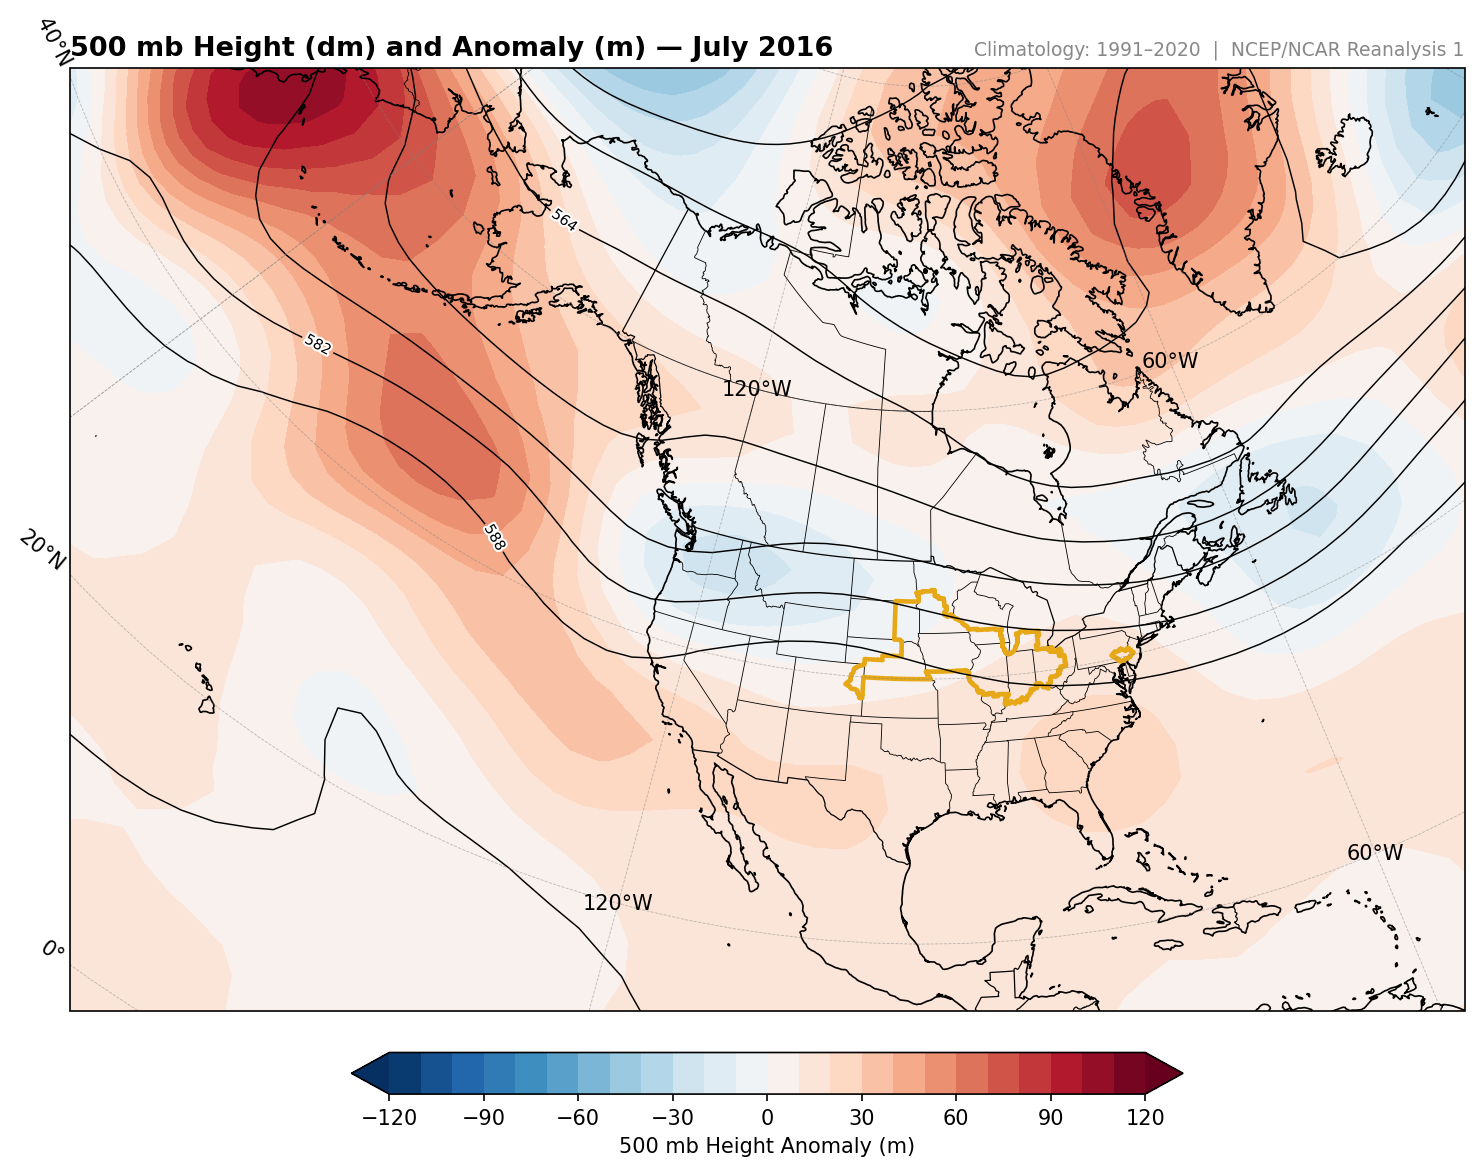
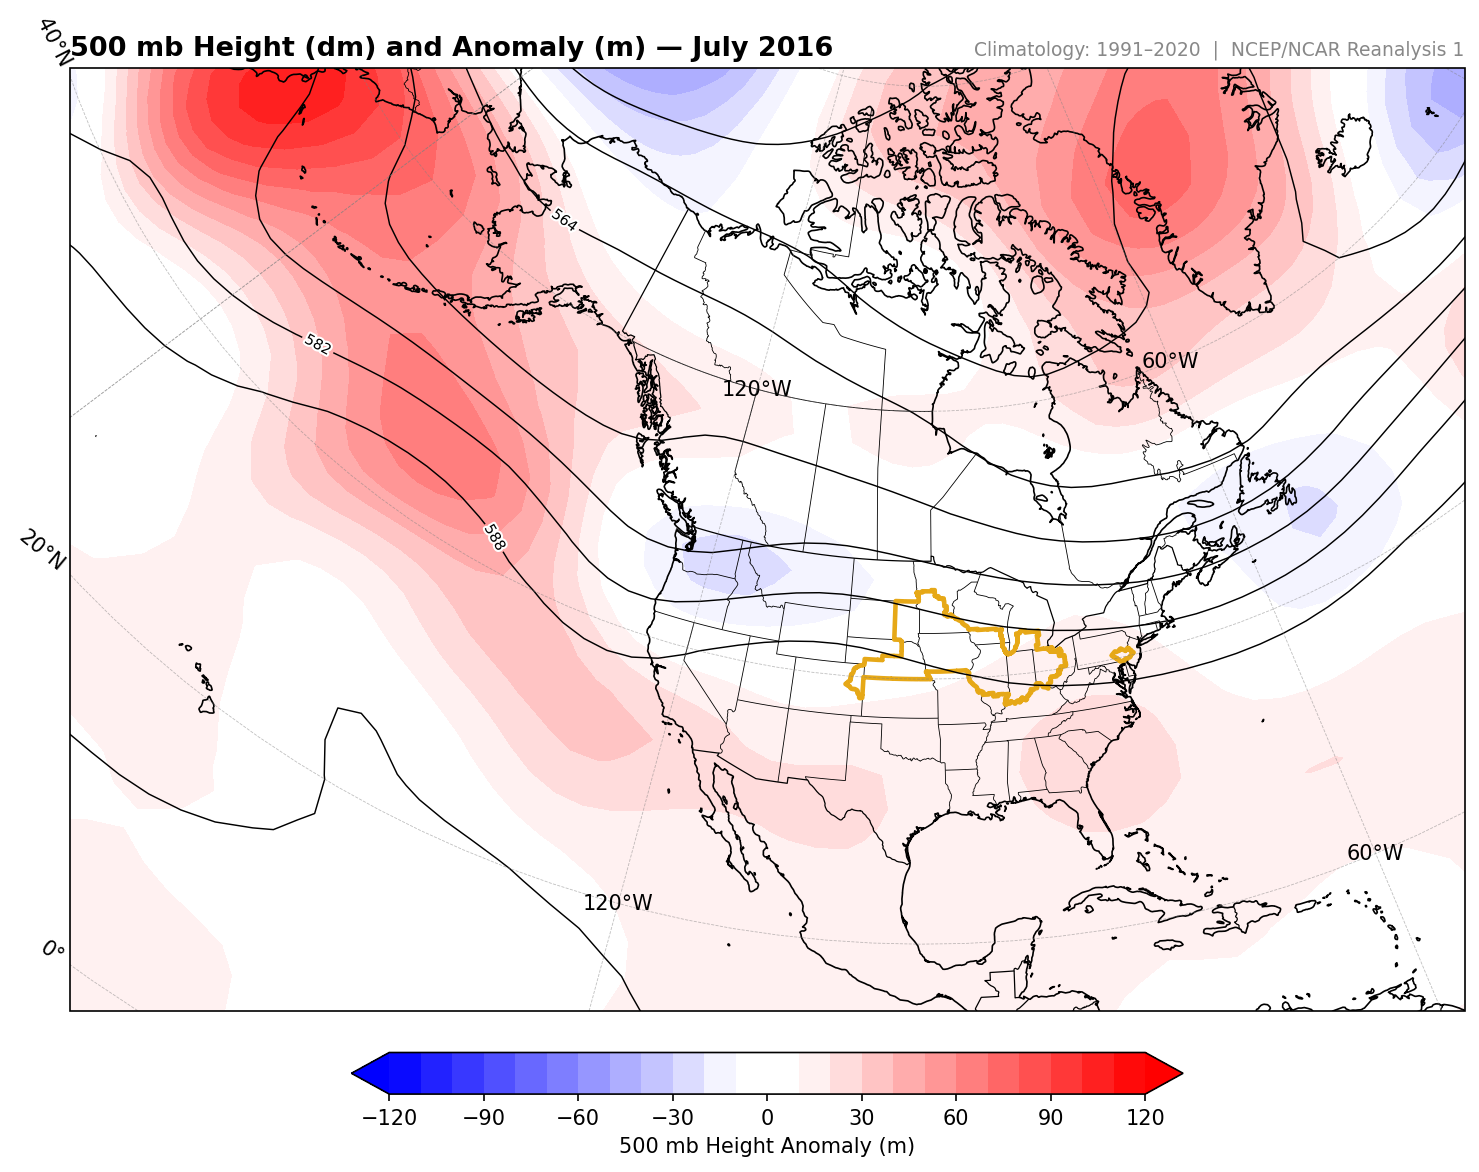
Creates heat day maps and updates anomaly colormap
Heat days are days with tmax > 95 deg F

Colormap was updated to have a white band centered at zero

diff --git a/public_html/js/surface.js b/public_html/js/surface.js
@@ -14,6 +14,10 @@ var SURF_VARS = [
         stem:    'prate_anom',
         caption: 'Brown = drier than normal &nbsp;|&nbsp; Green = wetter than normal &nbsp;|&nbsp; Units: in/month'
     },
+    {
+        stem:    'tmax_heatdays_anom',
+        caption: 'Blue = fewer days &gt;95&deg;F than normal &nbsp;|&nbsp; Red = more days &gt;95&deg;F than normal &nbsp;|&nbsp; Units: days/month'
+    },
 ];
 
 function updateSurfaceGrid() {
@@ -38,10 +42,12 @@ function updateSurfaceGrid() {
         var row = document.createElement('div');
         row.className = 'row g-4 mt-2';
 
+        var colClass = ['', 'col-12 col-xl-8 mx-auto', 'col-12 col-xl-6', 'col-12 col-xl-4'][selectedVars.length] || 'col-12 col-xl-4';
+
         selectedVars.forEach(function(v) {
             var fname = v.stem + '_2016_' + month.val + '_' + month.slug + '_' + zoom + '.png';
             var col = document.createElement('div');
-            col.className = 'col-12 col-xl-6';
+            col.className = colClass;
             col.innerHTML =
                 '<img src="images/' + fname + '" ' +
                      'class="img-fluid rounded shadow-sm d-block mx-auto" ' +

diff --git a/plot_anomalies.py b/plot_anomalies.py
@@ -12,6 +12,7 @@ import cartopy.crs as ccrs
 import cartopy.feature as cfeature
 import cartopy.util as cutil
 import json
+import matplotlib.colors as mcolors
 import matplotlib.patheffects as pe
 import matplotlib.pyplot as plt
 import numpy as np
@@ -165,8 +166,22 @@ def plot_overlay(data, lons, lats, fill_levs, cmap):
 
     ax.set_axis_off()
     ax.spines["geo"].set_visible(False)
-    
+
     return fig
+
+
+def _white_center_cmap(name, white_frac=0.08):
+    """Diverging colormap with a white band centered at zero."""
+    base = plt.cm.get_cmap(name)
+    n, w = 512, max(1, round(512 * white_frac / 2))
+    return mcolors.LinearSegmentedColormap.from_list(f'{name}_wc', np.vstack([
+        base(np.linspace(0.0, 0.5, n // 2 - w)),
+        np.ones((2 * w, 4)),
+        base(np.linspace(0.5, 1.0, n // 2 - w)),
+    ]))
+
+CMAP_RDBW = _white_center_cmap('bwr')
+CMAP_BRBG = _white_center_cmap('BrBG')
 
 # =========================================================================
 # 500 mb GEOPOTENTIAL HEIGHT ANOMALY (and actual heights)
@@ -199,7 +214,7 @@ for month_num, month_name in MONTHS.items():
 
     # Plot anomalies (m) on global map with contours of actual heights (dm)
     # blue = below normal heights, red = above normal heights
-    fig_global = plot_global(anom_c, lons_c, lats, fill_levs_hgt, "RdBu_r", title,
+    fig_global = plot_global(anom_c, lons_c, lats, fill_levs_hgt, CMAP_RDBW, title,
                              "500 mb Height Anomaly (m)",
                              line_data=hgt_c / 10, line_levs=line_levs_hgt)
     
@@ -209,7 +224,7 @@ for month_num, month_name in MONTHS.items():
 
     # Plot anomalies (m) on North America map with contours of actual heights (dm)
     # blue = below normal heights, red = above normal heights
-    fig_na = plot_na_or_conus(anom_c, lons_c, lats, fill_levs_hgt, "RdBu_r", title,
+    fig_na = plot_na_or_conus(anom_c, lons_c, lats, fill_levs_hgt, CMAP_RDBW, title,
                               "500 mb Height Anomaly (m)",
                               line_data=hgt_c / 10, line_levs=line_levs_hgt,
                               corn_belt_feat=corn_belt_feature, zoom="na")
@@ -220,7 +235,7 @@ for month_num, month_name in MONTHS.items():
 
     # Create overlay of anomalies (m) for interactive map
     # blue = below normal heights, red = above normal heights
-    fig_overlay = plot_overlay(anom_c, lons_c, lats, fill_levs_hgt, "RdBu_r")
+    fig_overlay = plot_overlay(anom_c, lons_c, lats, fill_levs_hgt, CMAP_RDBW)
     
     fig_overlay.savefig(OUT_DIR / f"overlay_{fname}.png", transparent=True, dpi=600, pad_inches=0)
     plt.close(fig_overlay)
@@ -229,7 +244,7 @@ for month_num, month_name in MONTHS.items():
 
 
 # =========================================================================
-# 2m TEMPERATURE ANOMALY  (North America only)
+# 2m TEMPERATURE ANOMALY  (North America and CONUS)
 # =========================================================================
 
 # --- Load data ---
@@ -244,7 +259,7 @@ fill_levs_tmp = np.arange(-9, 9.1, 1)  # °F
 
 for month_num, month_name in MONTHS_SURFACE.items():
 
-    # Get mean values for chosen month and calculate anomalies (m)
+    # Get mean values for chosen month and calculate anomalies (°F)
     tmp_2016 = tmp_mean.sel(time=f"{YEAR}-{month_num:02d}").squeeze()
     tmp_clim = tmp_ltm.isel(time=month_num - 1)
     anom_f   = (tmp_2016 - tmp_clim) * 9 / 5 # °F anomaly = Kelvin anomaly × 9/5 (offset cancels in difference)
@@ -255,16 +270,16 @@ for month_num, month_name in MONTHS_SURFACE.items():
     title = f"2m Temperature Anomaly (°F) — {month_name} {YEAR}"
     fname = f"tmp2m_anom_{YEAR}_{month_num:02d}_{month_name.lower()}"
 
-    # Plot anomalies (°F) on North America map
+    # Plot anomalies (°F) on map
     # Blue = cooler than normal, Red = warmer than normal
-    fig_na = plot_na_or_conus(data_c, lons_c, lats, fill_levs_tmp, "RdBu_r",
+    fig_na = plot_na_or_conus(data_c, lons_c, lats, fill_levs_tmp, CMAP_RDBW,
                               title, "Temperature Anomaly (°F)",
                               corn_belt_feat=corn_belt_feature, zoom="na")
     fig_na.savefig(OUT_DIR / f"{fname}_na.png", dpi=150, bbox_inches="tight", facecolor="white")
     plt.close(fig_na)
     print(f"Saved: {OUT_DIR / f'{fname}_na.png'}")
 
-    fig_conus = plot_na_or_conus(data_c, lons_c, lats, fill_levs_tmp, "RdBu_r",
+    fig_conus = plot_na_or_conus(data_c, lons_c, lats, fill_levs_tmp, CMAP_RDBW,
                                  title, "Temperature Anomaly (°F)",
                                  corn_belt_feat=corn_belt_feature, zoom="conus")
     fig_conus.savefig(OUT_DIR / f"{fname}_conus.png", dpi=150, bbox_inches="tight", facecolor="white")
@@ -273,7 +288,7 @@ for month_num, month_name in MONTHS_SURFACE.items():
 
 
 # =========================================================================
-# PRECIPITATION RATE ANOMALY  (North America only)
+# PRECIPITATION RATE ANOMALY  (North America and CONUS)
 # =========================================================================
 
 # --- Load data ---
@@ -288,7 +303,7 @@ fill_levs_prate = np.arange(-3, 3.1, 0.25)  # in/month
 
 for month_num, month_name in MONTHS_SURFACE.items():
 
-    # Get mean values for chosen month and calculate anomalies (m)
+    # Get mean values for chosen month and calculate anomalies (in/month)
     prate_2016 = prate_mean.sel(time=f"{YEAR}-{month_num:02d}").squeeze()
     prate_clim = prate_ltm.isel(time=month_num - 1)
     days       = DAYS_IN_MONTH[month_num]
@@ -300,21 +315,73 @@ for month_num, month_name in MONTHS_SURFACE.items():
     title = f"Precipitation Anomaly (in/month) — {month_name} {YEAR}"
     fname = f"prate_anom_{YEAR}_{month_num:02d}_{month_name.lower()}"
 
-    # Plot anomalies (in/month) on North America map
+    # Plot anomalies (in/month) on map
     # Brown = drier than normal, Green = wetter than normal
-    fig_na = plot_na_or_conus(data_c, lons_c, lats, fill_levs_prate, "BrBG",
+    fig_na = plot_na_or_conus(data_c, lons_c, lats, fill_levs_prate, CMAP_BRBG,
                               title, "Precipitation Anomaly (in/month)",
                               corn_belt_feat=corn_belt_feature, zoom="na")
     fig_na.savefig(OUT_DIR / f"{fname}_na.png", dpi=150, bbox_inches="tight", facecolor="white")
     plt.close(fig_na)
     print(f"Saved: {OUT_DIR / f'{fname}_na.png'}")
 
-    fig_conus = plot_na_or_conus(data_c, lons_c, lats, fill_levs_prate, "BrBG",
+    fig_conus = plot_na_or_conus(data_c, lons_c, lats, fill_levs_prate, CMAP_BRBG,
                                  title, "Precipitation Anomaly (in/month)",
                                  corn_belt_feat=corn_belt_feature, zoom="conus")
     fig_conus.savefig(OUT_DIR / f"{fname}_conus.png", dpi=150, bbox_inches="tight", facecolor="white")
     plt.close(fig_conus)
     print(f"Saved: {OUT_DIR / f'{fname}_conus.png'}")
+
+
+# =========================================================================
+# DAYS > 95°F (35°C) ANOMALY  (North America and CONUS)
+# =========================================================================
+
+_hd_clim_path = DATA_DIR / "heat_days_clim_1991-2020.nc"
+_hd_2016_path = DATA_DIR / f"heat_days_{YEAR}.nc"
+
+if _hd_clim_path.exists() and _hd_2016_path.exists():
+
+    # --- Load data ---
+    ds_hd_clim = xr.open_dataset(_hd_clim_path)
+    ds_hd_2016 = xr.open_dataset(_hd_2016_path)
+
+    # Contour levels
+    fill_levs_hd = np.arange(-20, 21, 2)  # days/month
+
+    for month_num, month_name in MONTHS_SURFACE.items():
+        
+        # Get mean values for chosen month and calculate anomalies (days)
+        hd_2016 = ds_hd_2016["heat_days"].sel(month=month_num).squeeze()
+        hd_clim = ds_hd_clim["heat_days"].sel(month=month_num).squeeze()
+        anom    = hd_2016 - hd_clim
+
+        # Update coordinates for plotting
+        data_c, lons_c, lats = prep_data(anom)
+
+        title = f"Days > 95°F Anomaly (days/month) — {month_name} {YEAR}"
+        fname = f"tmax_heatdays_anom_{YEAR}_{month_num:02d}_{month_name.lower()}"
+
+        # Plot anomalies (days) on map
+        # Blue = less hot days than normal, Red = more hot days than normal
+        fig_na = plot_na_or_conus(data_c, lons_c, lats, fill_levs_hd, CMAP_RDBW,
+                                  title, "Days > 95°F Anomaly (days/month)",
+                                  corn_belt_feat=corn_belt_feature, zoom="na")
+        fig_na.savefig(OUT_DIR / f"{fname}_na.png", dpi=150, bbox_inches="tight", facecolor="white")
+        plt.close(fig_na)
+        print(f"Saved: {OUT_DIR / f'{fname}_na.png'}")
+
+        fig_conus = plot_na_or_conus(data_c, lons_c, lats, fill_levs_hd, CMAP_RDBW,
+                                     title, "Days > 95°F Anomaly (days/month)",
+                                     corn_belt_feat=corn_belt_feature, zoom="conus")
+        fig_conus.savefig(OUT_DIR / f"{fname}_conus.png", dpi=150, bbox_inches="tight", facecolor="white")
+        plt.close(fig_conus)
+        print(f"Saved: {OUT_DIR / f'{fname}_conus.png'}")
+
+    ds_hd_clim.close()
+    ds_hd_2016.close()
+
+else:
+    print("Warning: heat days data not found — run compute_heat_days.py first.")
 
 
 print("Done.")

diff --git a/compute_heat_days.py b/compute_heat_days.py
@@ -1,0 +1,74 @@
+#!/usr/bin/env python3
+"""
+compute_heat_days.py
+
+Counts days > 95°F (35°C) per month from NCEP/NCAR Reanalysis 1 daily 2m max
+temperature (tmax.2m.gauss.YYYY.nc), then writes:
+  data/heat_days_clim_1991-2020.nc  — 1991-2020 mean counts per month
+  data/heat_days_2016.nc            — 2016 counts per month
+
+Run once after grab_data.sh and before plot_anomalies.py.
+"""
+
+import xarray as xr
+from pathlib import Path
+
+DATA_DIR    = Path("data")
+CLIM_YEARS  = range(1991, 2021)
+YEAR        = 2016
+THRESHOLD_C = 35.0   # °C = 95°F
+SURF_MONTHS = [5, 6, 7, 8]  # May–August
+
+
+def count_hot_days(year, month):
+    path = DATA_DIR / f"tmax.2m.gauss.{year}.nc"
+    with xr.open_dataset(path) as ds:
+        da = ds["tmax"].squeeze()
+        units = da.attrs.get("units", "K")
+        threshold = THRESHOLD_C if "C" in units else THRESHOLD_C + 273.15
+        monthly = da.sel(time=da.time.dt.month == month)
+        return (monthly > threshold).sum(dim="time").load()
+
+
+# ── Climatology (1991–2020) ────────────────────────────────────────────────────
+print("Computing 1991–2020 climatology...")
+clim_slabs = []
+for year in CLIM_YEARS:
+    month_counts = [
+        count_hot_days(year, m).assign_coords(month=m).expand_dims("month")
+        for m in SURF_MONTHS
+    ]
+    clim_slabs.append(xr.concat(month_counts, dim="month"))
+    print(f"  {year}")
+
+clim_mean = xr.concat(clim_slabs, dim="year").mean(dim="year")
+clim_mean.name = "heat_days"
+clim_mean.attrs.update({
+    "long_name":    "Mean days > 35°C (95°F)",
+    "units":        "days/month",
+    "climatology":  "1991-2020",
+    "threshold_C":  THRESHOLD_C,
+})
+
+out_clim = DATA_DIR / "heat_days_clim_1991-2020.nc"
+clim_mean.to_netcdf(out_clim)
+print(f"Saved: {out_clim}")
+
+# ── 2016 ───────────────────────────────────────────────────────────────────────
+print(f"\nComputing {YEAR}...")
+month_counts = [
+    count_hot_days(YEAR, m).assign_coords(month=m).expand_dims("month")
+    for m in SURF_MONTHS
+]
+ds_2016 = xr.concat(month_counts, dim="month")
+ds_2016.name = "heat_days"
+ds_2016.attrs.update({
+    "long_name":   f"Days > 35°C (95°F) in {YEAR}",
+    "units":       "days/month",
+    "threshold_C": THRESHOLD_C,
+})
+
+out_2016 = DATA_DIR / f"heat_days_{YEAR}.nc"
+ds_2016.to_netcdf(out_2016)
+print(f"Saved: {out_2016}")
+print("\nDone. Run plot_anomalies.py to generate maps.")

diff --git a/public_html/index.php b/public_html/index.php
@@ -110,6 +110,9 @@
                         <li><label class="dropdown-item d-flex gap-2">
                             <input type="checkbox" class="surf-var" value="prate_anom" data-label="Precip" checked> Precipitation
                         </label></li>
+                        <li><label class="dropdown-item d-flex gap-2">
+                            <input type="checkbox" class="surf-var" value="tmax_heatdays_anom" data-label="Heat Days"> Days &gt;95&deg;F
+                        </label></li>
                     </ul>
                 </div>
 
